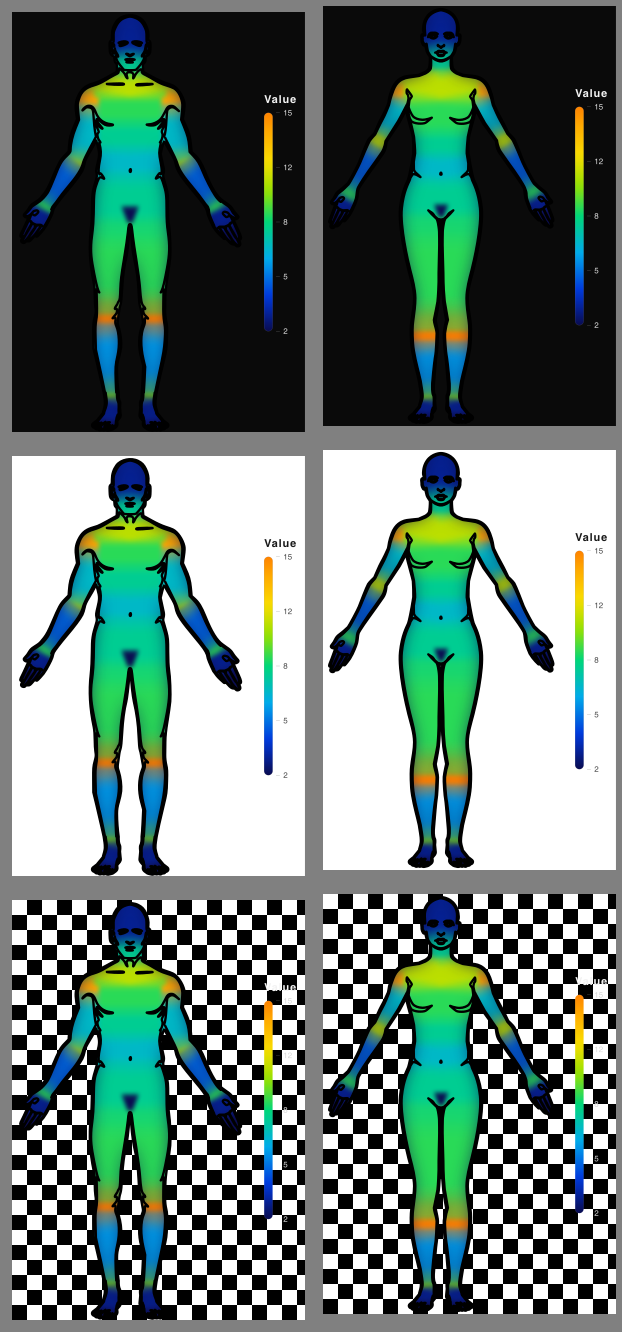
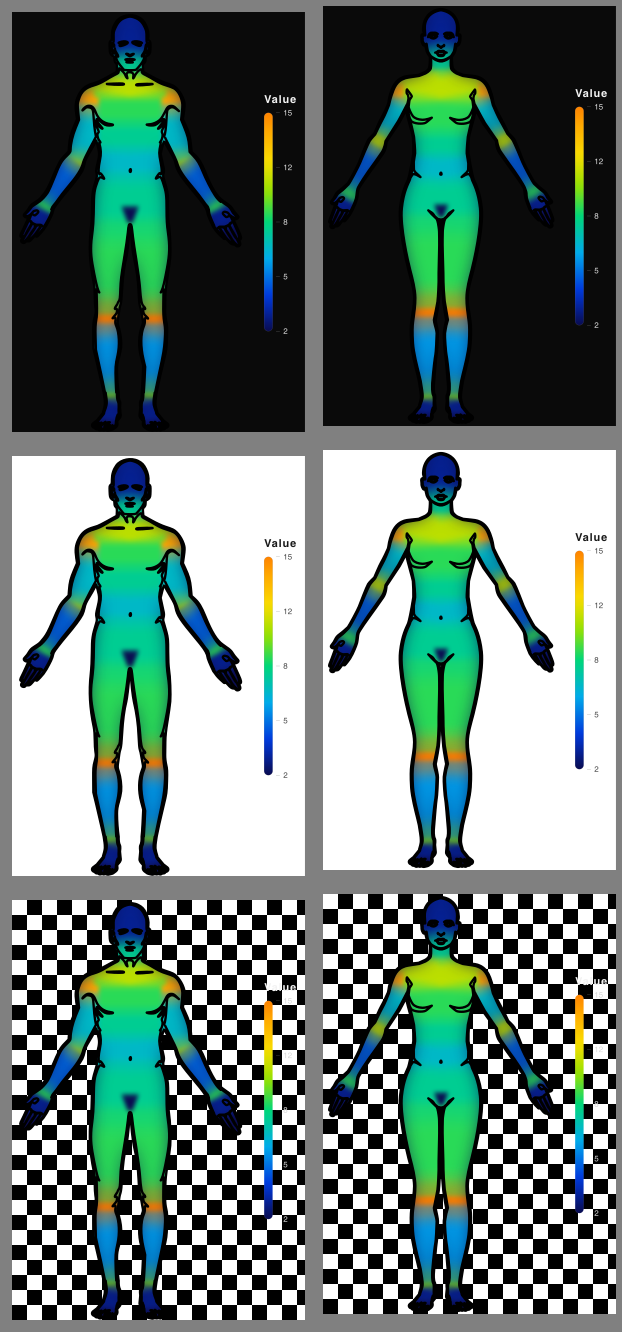
fix(assets): corrigir a altura do joelho e os marcos do dorso no corpo feminino
A região do joelho do corpo feminino ficava na panturrilha. O corte usava
frações do bbox dos polígonos de coxa e perna do desenho, o que assume que a
costura entre eles marca o joelho. No masculino ela cai em y=705 e acerta; no
feminino cai em y=762, já dentro da panturrilha, e a faixa saía em 737,5 a
771,2.

A faixa feminina passa a ser uma âncora absoluta em 685,0 a 716,5, mediana de
cinco métodos de medição. Os dois desenhos têm a virilha em y=490 e a sola em
y~935, então a perna ocupa a mesma faixa vertical e o joelho cai quase no
mesmo y nos dois corpos: a coxa feminina ficou 195,0 contra 195,6 do masculino.

No dorso feminino, três marcas estavam alinhadas à posição errada:

- dobra poplítea de y=768 para y=715, acompanhando a base da nova faixa
- prega glútea de y=592, no meio da coxa, para y=482, igual à masculina
- linha da panturrilha de y=792 a 858 para y=765 a 843, e da borda externa
  para a borda interna do gêmeo, como no masculino

O corpo masculino não foi tocado: os dois arquivos saem byte a byte idênticos.
Screenshots do README regeneradas e o parâmetro de cache das imagens subiu
para v=7, senão o CDN do GitHub continua servindo as antigas.

Claude-Session: https://claude.ai/code/session_01WXzP3MZcJaVoSxBBgUgekS

Changed region(s): [[0.6415, 0.8619, 0.7637, 0.9542], [0.6415, 0.5233, 0.7637, 0.6156], [0.6415, 0.2155, 0.7637, 0.277]]

diff --git a/README.pt-BR.md b/README.pt-BR.md
@@ -1,5 +1,5 @@
 <p align="center">
-  <img src="https://raw.githubusercontent.com/pedrorcruzz/anatomapa/main/assets/icon.svg?v=6" width="120" alt="anatomapa" />
+  <img src="https://raw.githubusercontent.com/pedrorcruzz/anatomapa/main/assets/icon.svg?v=7" width="120" alt="anatomapa" />
 </p>
 
 <h1 align="center">anatomapa</h1>
@@ -25,7 +25,7 @@
 </p>
 
 <p align="center">
-  <img src="https://raw.githubusercontent.com/pedrorcruzz/anatomapa/main/assets/screenshots/hero.png?v=6" alt="Mapa de calor anatômico masculino e feminino, com legenda" width="720" />
+  <img src="https://raw.githubusercontent.com/pedrorcruzz/anatomapa/main/assets/screenshots/hero.png?v=7" alt="Mapa de calor anatômico masculino e feminino, com legenda" width="720" />
 </p>
 
 ## Sobre
@@ -78,7 +78,7 @@ am.heatmap({
 
 Um dicionário com três regiões já basta. Região sem valor sai em cinza neutro, que significa
 "sem dado", não "valor baixo"; e a mão sem sufixo de lado pinta as duas mãos.
-<p align="center"><img src="https://raw.githubusercontent.com/pedrorcruzz/anatomapa/main/assets/screenshots/exemplo-minimo.png?v=6" alt="Mapa com peito superior, mãos e joelhos coloridos e o resto em cinza" width="340" /></p>
+<p align="center"><img src="https://raw.githubusercontent.com/pedrorcruzz/anatomapa/main/assets/screenshots/exemplo-minimo.png?v=7" alt="Mapa com peito superior, mãos e joelhos coloridos e o resto em cinza" width="340" /></p>
 
 ```python
 am.heatmap(
@@ -89,7 +89,7 @@ am.heatmap(
 
 `leg` é o membro inferior inteiro: um valor só desce para nádegas, coxa, joelho, perna,
 tornozelo, pé e dedos. É a herança em ação: você manda o dado no nível que tiver.
-<p align="center"><img src="https://raw.githubusercontent.com/pedrorcruzz/anatomapa/main/assets/screenshots/exemplo-heranca.png?v=6" alt="Vista posterior com o membro inferior inteiro quente e o dorso mais frio" width="340" /></p>
+<p align="center"><img src="https://raw.githubusercontent.com/pedrorcruzz/anatomapa/main/assets/screenshots/exemplo-heranca.png?v=7" alt="Vista posterior com o membro inferior inteiro quente e o dorso mais frio" width="340" /></p>
 
 ```python
 am.heatmap({
@@ -103,7 +103,7 @@ am.heatmap({
 
 Um lado no geral e o outro em detalhe, na mesma chamada. À direita tudo sai em 80; à esquerda pinta só
 o declarado, e o dedo do pé herda 40 do pé, o ancestral mais próximo. O quadril esquerdo fica sem valor e não pinta: quem detalha assume cobrir tudo que quer pintar.
-<p align="center"><img src="https://raw.githubusercontent.com/pedrorcruzz/anatomapa/main/assets/screenshots/exemplo-lados.png?v=6" alt="Lado direito uniforme e lado esquerdo detalhado segmento a segmento" width="340" /></p>
+<p align="center"><img src="https://raw.githubusercontent.com/pedrorcruzz/anatomapa/main/assets/screenshots/exemplo-lados.png?v=7" alt="Lado direito uniforme e lado esquerdo detalhado segmento a segmento" width="340" /></p>
 
 ```python
 dados = {
@@ -280,8 +280,8 @@ am.validate({"hand": 1, "haand": 2, "hand_right": 3})
 ## Galeria
 
 <p align="center">
-  <img src="https://raw.githubusercontent.com/pedrorcruzz/anatomapa/main/assets/screenshots/fundos.png?v=6" alt="Mesmo mapa em fundo escuro, claro e transparente, masculino e feminino" width="640" />
-  <img src="https://raw.githubusercontent.com/pedrorcruzz/anatomapa/main/assets/screenshots/corpo-modelo.png?v=6" alt="Modelo anatômico masculino e feminino" width="420" />
+  <img src="https://raw.githubusercontent.com/pedrorcruzz/anatomapa/main/assets/screenshots/fundos.png?v=7" alt="Mesmo mapa em fundo escuro, claro e transparente, masculino e feminino" width="640" />
+  <img src="https://raw.githubusercontent.com/pedrorcruzz/anatomapa/main/assets/screenshots/corpo-modelo.png?v=7" alt="Modelo anatômico masculino e feminino" width="420" />
 </p>
 
 ## Como citar

diff --git a/README.md b/README.md
@@ -1,5 +1,5 @@
 <p align="center">
-  <img src="https://raw.githubusercontent.com/pedrorcruzz/anatomapa/main/assets/icon.svg?v=6" width="120" alt="anatomapa" />
+  <img src="https://raw.githubusercontent.com/pedrorcruzz/anatomapa/main/assets/icon.svg?v=7" width="120" alt="anatomapa" />
 </p>
 
 <h1 align="center">anatomapa</h1>
@@ -25,7 +25,7 @@
 </p>
 
 <p align="center">
-  <img src="https://raw.githubusercontent.com/pedrorcruzz/anatomapa/main/assets/screenshots/hero-en.png?v=6" alt="Male and female anatomical heatmap with legend" width="720" />
+  <img src="https://raw.githubusercontent.com/pedrorcruzz/anatomapa/main/assets/screenshots/hero-en.png?v=7" alt="Male and female anatomical heatmap with legend" width="720" />
 </p>
 
 ## About
@@ -78,7 +78,7 @@ am.heatmap({
 
 A dict with three regions is enough. A region with no value comes out in neutral grey,
 meaning "no data", not "low value"; and a hand with no side suffix paints both hands.
-<p align="center"><img src="https://raw.githubusercontent.com/pedrorcruzz/anatomapa/main/assets/screenshots/exemplo-minimo-en.png?v=6" alt="Map with upper chest, hands and knees colored and everything else in grey" width="340" /></p>
+<p align="center"><img src="https://raw.githubusercontent.com/pedrorcruzz/anatomapa/main/assets/screenshots/exemplo-minimo-en.png?v=7" alt="Map with upper chest, hands and knees colored and everything else in grey" width="340" /></p>
 
 ```python
 am.heatmap(
@@ -89,7 +89,7 @@ am.heatmap(
 
 `leg` is the whole lower limb: a single value flows down to buttocks, thigh, knee, lower
 leg, ankle, foot and toes. Inheritance in action: send data at whatever level you have.
-<p align="center"><img src="https://raw.githubusercontent.com/pedrorcruzz/anatomapa/main/assets/screenshots/exemplo-heranca-en.png?v=6" alt="Posterior view with the whole lower limb hot and the upper back cooler" width="340" /></p>
+<p align="center"><img src="https://raw.githubusercontent.com/pedrorcruzz/anatomapa/main/assets/screenshots/exemplo-heranca-en.png?v=7" alt="Posterior view with the whole lower limb hot and the upper back cooler" width="340" /></p>
 
 ```python
 am.heatmap({
@@ -103,7 +103,7 @@ am.heatmap({
 
 One side as a whole, the other in detail, in the same call. On the right everything comes out at 80; on
 the left only what was declared paints, and the toes inherit 40 from the foot, their closest ancestor. The left hip gets no value and stays unpainted: whoever details a side owns covering it all.
-<p align="center"><img src="https://raw.githubusercontent.com/pedrorcruzz/anatomapa/main/assets/screenshots/exemplo-lados-en.png?v=6" alt="Uniform right side and left side detailed segment by segment" width="340" /></p>
+<p align="center"><img src="https://raw.githubusercontent.com/pedrorcruzz/anatomapa/main/assets/screenshots/exemplo-lados-en.png?v=7" alt="Uniform right side and left side detailed segment by segment" width="340" /></p>
 
 ```python
 data = {
@@ -280,8 +280,8 @@ am.validate({"hand": 1, "haand": 2, "hand_right": 3})
 ## Gallery
 
 <p align="center">
-  <img src="https://raw.githubusercontent.com/pedrorcruzz/anatomapa/main/assets/screenshots/fundos-en.png?v=6" alt="Same map over dark, light and transparent backgrounds, male and female" width="640" />
-  <img src="https://raw.githubusercontent.com/pedrorcruzz/anatomapa/main/assets/screenshots/corpo-modelo.png?v=6" alt="Male and female anatomical model" width="420" />
+  <img src="https://raw.githubusercontent.com/pedrorcruzz/anatomapa/main/assets/screenshots/fundos-en.png?v=7" alt="Same map over dark, light and transparent backgrounds, male and female" width="640" />
+  <img src="https://raw.githubusercontent.com/pedrorcruzz/anatomapa/main/assets/screenshots/corpo-modelo.png?v=7" alt="Male and female anatomical model" width="420" />
 </p>
 
 ## Citation
